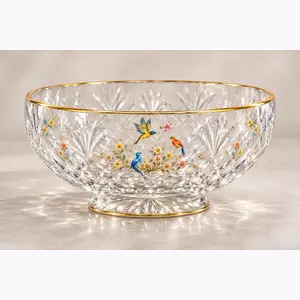
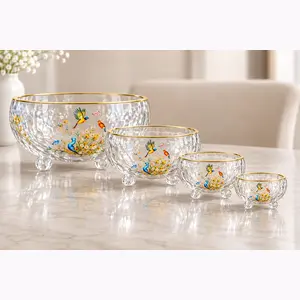
Corrige les cadeaux de vaisselle

diff --git a/src/config/gift-list.ts b/src/config/gift-list.ts
@@ -24,10 +24,10 @@ export const weddingGiftList: WeddingGift[] = [
   { id: 'natural-juice-extractor', name: 'Extracteur de jus naturel', imageIndex: 12, amount: 20000 },
   { id: 'curtains', name: 'Rideaux élégants pour le salon', imageIndex: 13, amount: null, minAmount: 20000, maxAmount: 25000 },
   { id: 'ironing-board', name: 'Table à repasser avec fer', imageIndex: 14, amount: 25000 },
-  { id: 'deep-plates', name: 'Ensemble d’assiettes creuses en forme de coupelles', imageIndex: 15, amount: 15000 },
-  { id: 'salad-bowl', name: 'Saladier en verre taillé', imageIndex: 16, amount: null, minAmount: 8000, maxAmount: 15000 },
+  { id: 'soup-tureens', name: 'Jeu de soupières assorties', imageIndex: 15, amount: null, minAmount: 20000, maxAmount: 35000 },
+  { id: 'salad-bowl-set', name: 'Jeu de saladiers en verre, du grand au petit', imageIndex: 16, amount: null, minAmount: 10000, maxAmount: 20000 },
   { id: 'pots', name: 'Jeu de marmites', imageIndex: 17, amount: null, minAmount: 35000, maxAmount: 45000 },
-  { id: 'serving-dishes', name: 'Jeu de 4 plats de service : entrée, plat, dessert et soupe', imageIndex: 18, amount: null, minAmount: 35000, maxAmount: 45000 },
+  { id: 'serving-dishes', name: 'Service de table en porcelaine', imageIndex: 18, amount: null, minAmount: 30000, maxAmount: 45000 },
   { id: 'blender', name: 'Mixeur avec bol et moulin pour ingrédients secs', imageIndex: 19, amount: null, minAmount: 25000, maxAmount: 40000 },
   { id: 'rice-cooker', name: 'Cuiseur de riz', imageIndex: 20, amount: null, minAmount: 20000, maxAmount: 35000 },
   { id: 'air-conditioner', name: 'Climatiseur 1,25 CV · 9 000 BTU', imageIndex: 21, amount: null, minAmount: 195000, maxAmount: 210000 },
@@ -35,7 +35,7 @@ export const weddingGiftList: WeddingGift[] = [
   { id: 'cookstove', name: 'Cuisinière', imageIndex: 23, amount: null, minAmount: 80000, maxAmount: 95000 },
   { id: 'honeymoon-kribi', name: 'Voyage de noces à Kribi', imageIndex: 24, amount: null, minAmount: 100000, maxAmount: 115000 },
   { id: 'om-choice', name: 'Dépôt OM · montant au choix', imageIndex: 25, amount: null },
-  { id: 'table-runners', name: 'Ensemble de table avec chemin de table et accessoires', imageIndex: 26, amount: null, minAmount: 20000, maxAmount: 35000 },
+  { id: 'table-runners', name: 'Chemin de table, napperons et accessoires assortis', imageIndex: 26, amount: null, minAmount: 20000, maxAmount: 35000 },
   { id: 'electric-chopper', name: 'Hachoir électrique multifonction', imageIndex: 27, amount: null, minAmount: 20000, maxAmount: 35000 },
   { id: 'bedside-lamps', name: 'Paire de lampes de chevet', imageIndex: 28, amount: 15000 },
   { id: 'steam-iron', name: 'Fer à repasser vapeur', imageIndex: 29, amount: 15000 },
